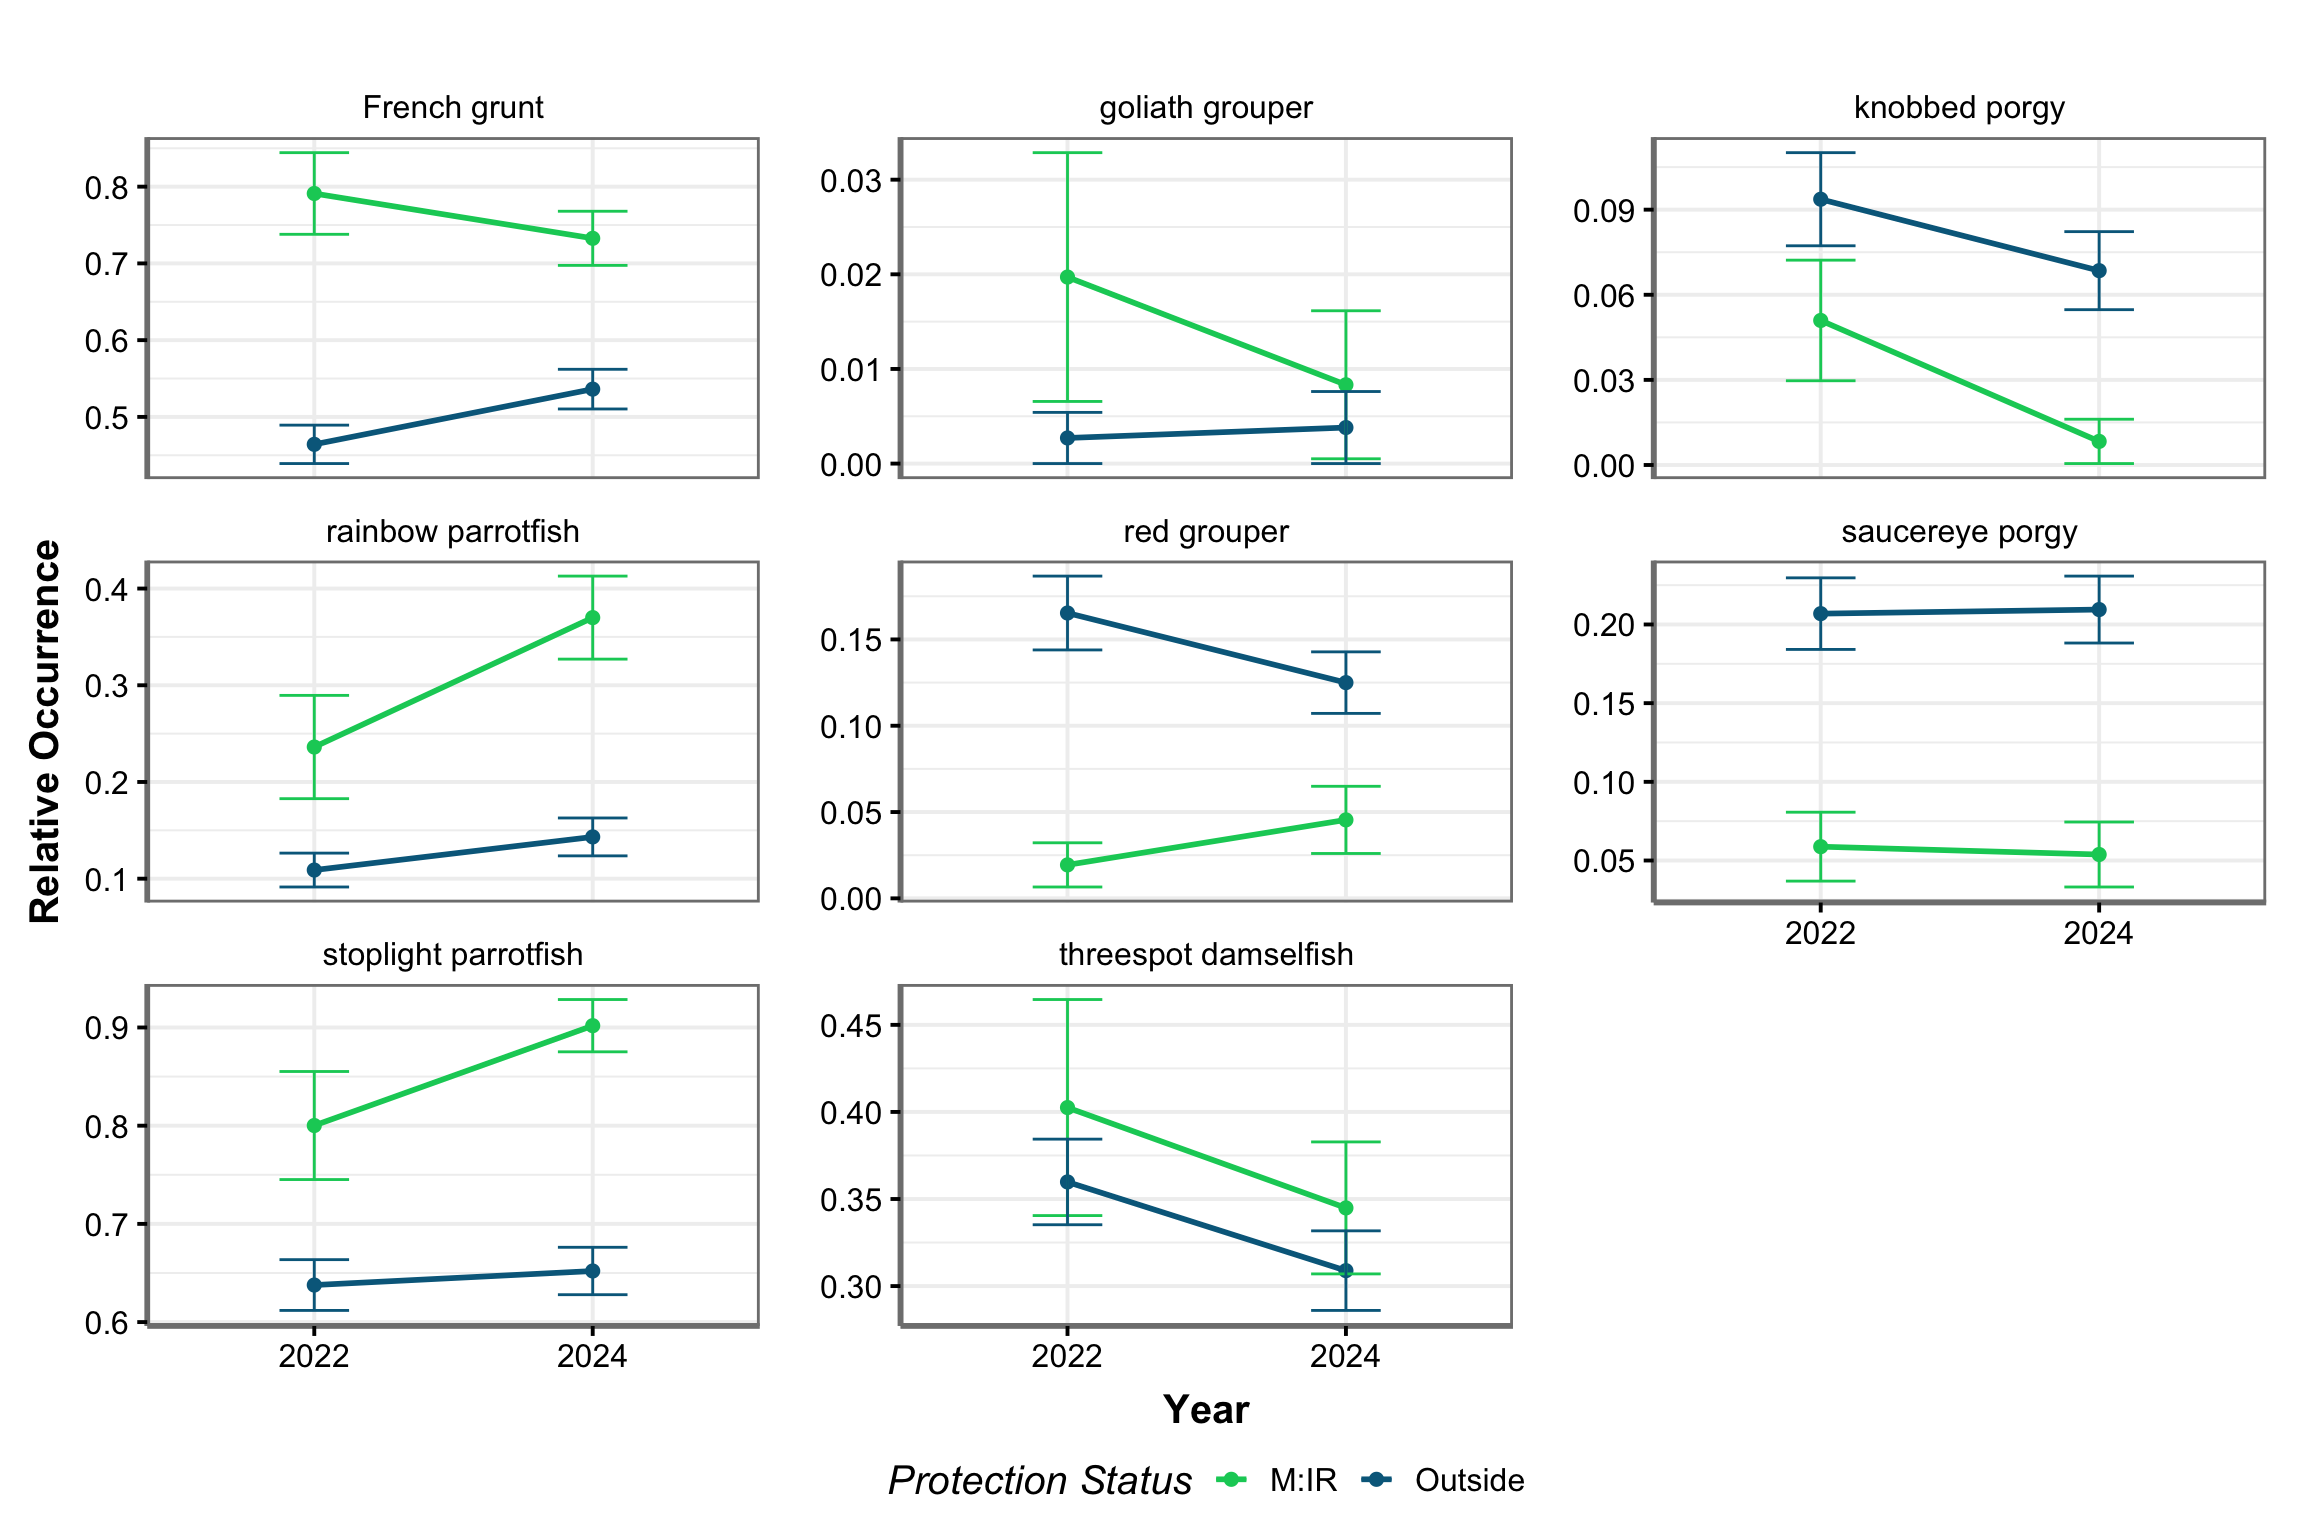
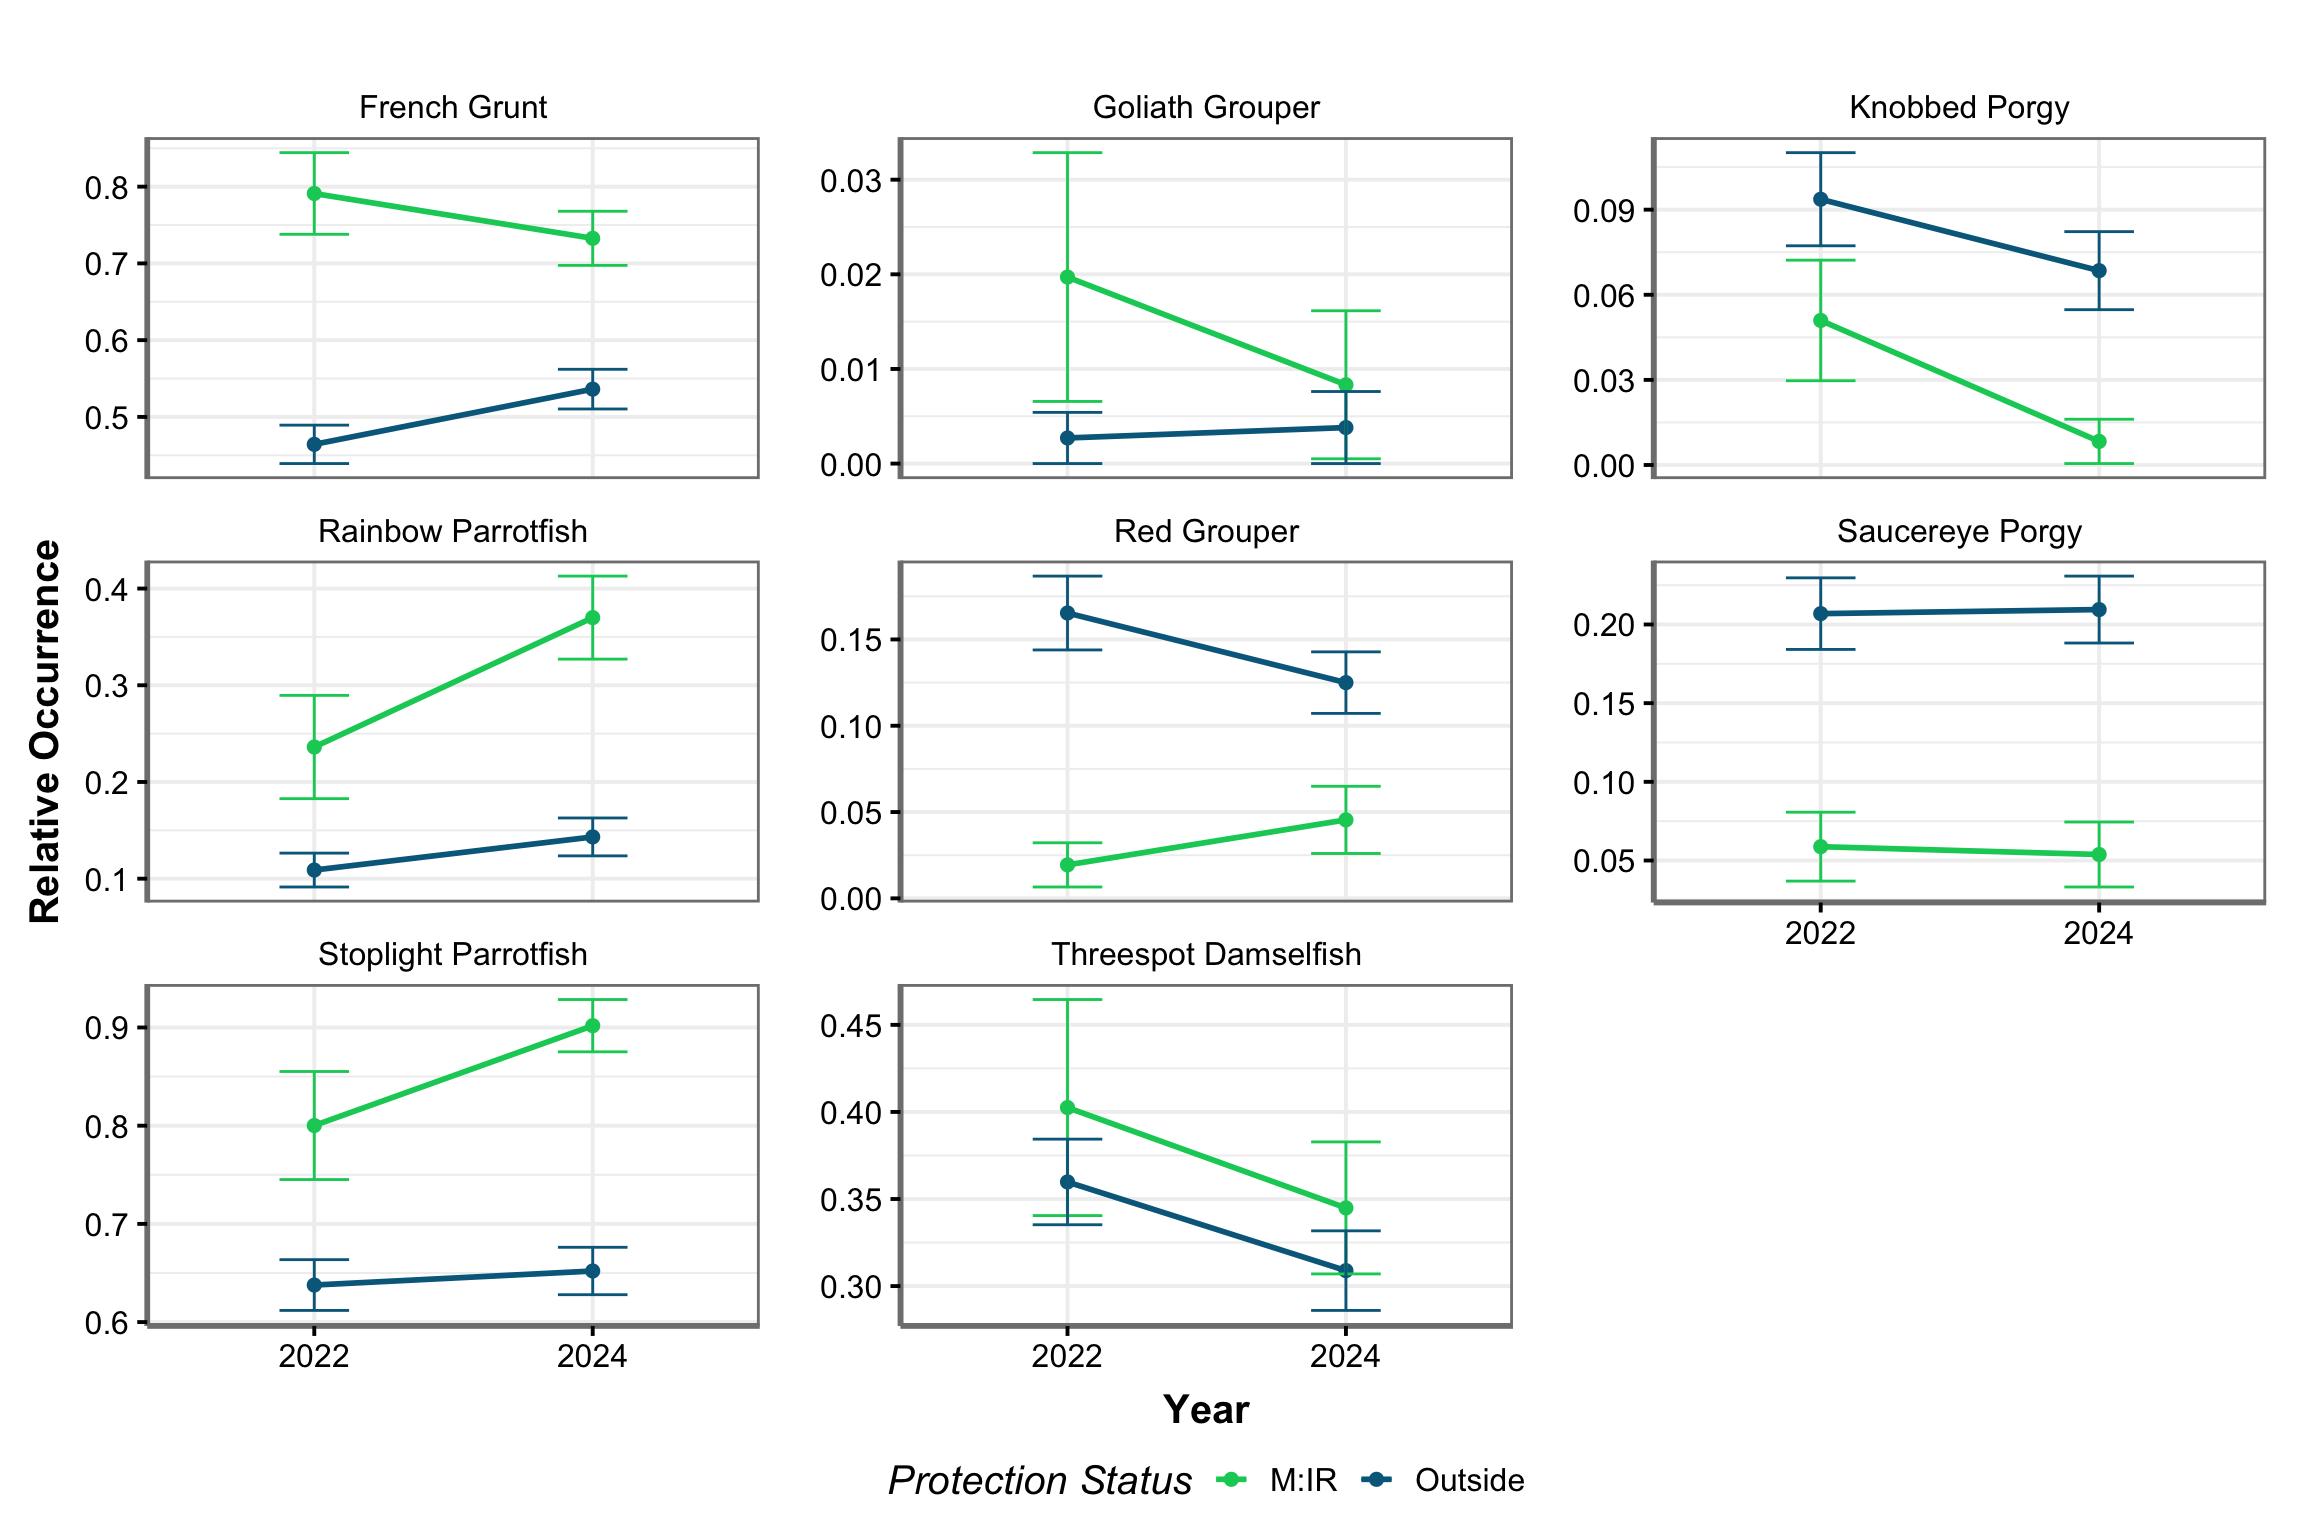
updates to LF and tables

diff --git a/docs/index.html b/docs/index.html
@@ -7,7 +7,7 @@
 <meta name="viewport" content="width=device-width, initial-scale=1.0, user-scalable=yes">
 
 <meta name="author" content="Jeremiah Blondeau + Rob Harper">
-<meta name="dcterms.date" content="2025-08-20">
+<meta name="dcterms.date" content="2025-08-21">
 
 <title>Mission: Iconic Reef</title>
 <style>
@@ -120,7 +120,7 @@ window.Quarto = {
       <div>
       <div class="quarto-title-meta-heading">Published</div>
       <div class="quarto-title-meta-contents">
-        <p class="date">August 20, 2025</p>
+        <p class="date">August 21, 2025</p>
       </div>
     </div>
     
@@ -198,8 +198,8 @@ window.Quarto = {
 <h3 data-number="2.1" class="anchored" data-anchor-id="strata"><span class="header-section-number">2.1</span> Strata</h3>
 <div class="cell">
 <div class="cell-output-display">
-<div class="datatables html-widget html-fill-item" id="htmlwidget-44f98a98a1e5ae904e66" style="width:100%;height:auto;"></div>
-<script type="application/json" data-for="htmlwidget-44f98a98a1e5ae904e66">{"x":{"filter":"none","vertical":false,"caption":"<caption>Table 1. Number of sites sampled.<\/caption>","data":[["Outside","Outside","Outside","Outside","Outside","Inside","Inside","Inside","Inside","Inside"],["FK01","FK02","FK03","FK04","FK05","FK01","FK02","FK03","FK04","FK05"],["inshore reefs, all depths","mid-channel patch reefs, all depths","offshore patch, all depths","forereef, low rugosity, &lt;12m","forereef, high rugosity, &lt;12m","inshore reefs, all depths","mid-channel patch reefs, all depths","offshore patch, all depths","forereef, low rugosity, &lt;12m","forereef, high rugosity, &lt;12m"],[15,170,96,181,167,12,25,15,20,125]],"container":"<table class=\"cell-border stripe\">\n  <thead>\n    <tr>\n      <th>Study Area<\/th>\n      <th>Strata Name<\/th>\n      <th>Strata Description<\/th>\n      <th>Sample Number<\/th>\n    <\/tr>\n  <\/thead>\n<\/table>","options":{"columnDefs":[{"className":"dt-center","targets":"_all"},{"name":"PROT","targets":0},{"name":"STRAT","targets":1},{"name":"description","targets":2},{"name":"n","targets":3}],"info":false,"paging":false,"searching":false,"order":[],"autoWidth":false,"orderClasses":false}},"evals":[],"jsHooks":[]}</script>
+<div class="datatables html-widget html-fill-item" id="htmlwidget-be2ee64553cbaf10fd43" style="width:100%;height:auto;"></div>
+<script type="application/json" data-for="htmlwidget-be2ee64553cbaf10fd43">{"x":{"filter":"none","vertical":false,"caption":"<caption>Table 1. Number of sites sampled by year.<\/caption>","data":[["Outside","Outside","Outside","Outside","Outside","Inside","Inside","Inside","Inside","Inside"],["FK01","FK02","FK03","FK04","FK05","FK01","FK02","FK03","FK04","FK05"],["inshore reefs, all depths","mid-channel patch reefs, all depths","offshore patch, all depths","forereef, low rugosity, &lt;12m","forereef, high rugosity, &lt;12m","inshore reefs, all depths","mid-channel patch reefs, all depths","offshore patch, all depths","forereef, low rugosity, &lt;12m","forereef, high rugosity, &lt;12m"],[0,101,61,95,88,0,12,7,5,61],[15,100,36,105,87,12,13,8,15,64]],"container":"<table class=\"cell-border stripe\">\n  <thead>\n    <tr>\n      <th>Study Area<\/th>\n      <th>Strata Name<\/th>\n      <th>Strata Description<\/th>\n      <th>2022<\/th>\n      <th>2024<\/th>\n    <\/tr>\n  <\/thead>\n<\/table>","options":{"columnDefs":[{"className":"dt-center","targets":"_all"},{"name":"PROT","targets":0},{"name":"STRAT","targets":1},{"name":"description","targets":2},{"name":"2022","targets":3},{"name":"2024","targets":4}],"info":false,"paging":false,"searching":false,"order":[],"autoWidth":false,"orderClasses":false}},"evals":[],"jsHooks":[]}</script>
 </div>
 </div>
 </section>
@@ -208,8 +208,8 @@ window.Quarto = {
 <p>Six reef fish species were chosen to represent different trophic levels and functional roles.</p>
 <div class="cell">
 <div class="cell-output-display">
-<div class="datatables html-widget html-fill-item" id="htmlwidget-aa804e0413e8c4c6f71e" style="width:100%;height:auto;"></div>
-<script type="application/json" data-for="htmlwidget-aa804e0413e8c4c6f71e">{"x":{"filter":"none","vertical":false,"caption":"<caption>Table 2. Fish species. For analysis, both porgy species were combined.<\/caption>","data":[["HAE FLAV","SPA VIRI","SCA GUAC","STE PLAN","CAL CALA","CAL NODO","EPI MORI","EPI ITAJ"],["French grunt","Stoplight parrotfish","Rainbow parrotfish","Threespot damselfish","Saucereye porgy","Knobbed porgy","Red grouper","Goliath grouper"],["Haemulon flavolineatum","Sparisoma viride","Scarus guacamaia","Stegastes planifrons","Calamus calamus","Calamus nodosus","Epinephelus morio","Epinephelus itajara"],[30,60,168,13,41,50,91,244]],"container":"<table class=\"cell-border stripe\">\n  <thead>\n    <tr>\n      <th> <\/th>\n      <th>Species Code<\/th>\n      <th>Common Name<\/th>\n      <th>Scientific Name<\/th>\n    <\/tr>\n  <\/thead>\n<\/table>","options":{"columnDefs":[{"className":"dt-center","targets":"_all"},{"orderable":false,"targets":0},{"name":"SPECIES_CD","targets":0},{"name":"COMNAME","targets":1},{"name":"SCINAME","targets":2},{"name":"max_size","targets":3}],"info":false,"paging":false,"searching":false,"order":[],"autoWidth":false,"orderClasses":false,"rowCallback":"function(row, data, displayNum, displayIndex, dataIndex) {\nvar value=data[2]; $(this.api().cell(row, 2).node()).css({'font-style':'italic'});\n}"}},"evals":["options.rowCallback"],"jsHooks":[]}</script>
+<div class="datatables html-widget html-fill-item" id="htmlwidget-5e716fb372b0913b6842" style="width:100%;height:auto;"></div>
+<script type="application/json" data-for="htmlwidget-5e716fb372b0913b6842">{"x":{"filter":"none","vertical":false,"caption":"<caption>Table 2. Fish species. For analysis, both porgy species were combined.<\/caption>","data":[["HAE FLAV","SPA VIRI","SCA GUAC","STE PLAN","CAL CALA","CAL NODO","EPI MORI","EPI ITAJ"],["French Grunt","Stoplight Parrotfish","Rainbow Parrotfish","Threespot Damselfish","Saucereye Porgy","Knobbed Porgy","Red Grouper","Goliath Grouper"],["Haemulon flavolineatum","Sparisoma viride","Scarus guacamaia","Stegastes planifrons","Calamus calamus","Calamus nodosus","Epinephelus morio","Epinephelus itajara"]],"container":"<table class=\"cell-border stripe\">\n  <thead>\n    <tr>\n      <th>Species Code<\/th>\n      <th>Common Name<\/th>\n      <th>Scientific Name<\/th>\n    <\/tr>\n  <\/thead>\n<\/table>","options":{"columnDefs":[{"className":"dt-center","targets":"_all"},{"name":"SPECIES_CD","targets":0},{"name":"COMNAME","targets":1},{"name":"SCINAME","targets":2}],"info":false,"paging":false,"searching":false,"order":[],"autoWidth":false,"orderClasses":false,"rowCallback":"function(row, data, displayNum, displayIndex, dataIndex) {\nvar value=data[2]; $(this.api().cell(row, 2).node()).css({'font-style':'italic'});\n}"}},"evals":["options.rowCallback"],"jsHooks":[]}</script>
 </div>
 </div>
 <div style="page-break-after: always;"></div>
@@ -247,7 +247,7 @@ window.Quarto = {
 <h2 data-number="5" class="anchored" data-anchor-id="length-frequency"><span class="header-section-number">5</span> Length Frequency</h2>
 <p>Length compositions provide a detailed description of a selected fish’s population structure. These highly informative figures can show the length at which a fish species recruits to the coral reef (i.e., young of year or from nursery habitat), length classes removed by the local fisheries, and the effectiveness of management actions</p>
 <div class="tabset-margin-container"></div><div class="panel-tabset">
-<ul class="nav nav-tabs" role="tablist"><li class="nav-item" role="presentation"><a class="nav-link active" id="tabset-1-1-tab" data-bs-toggle="tab" data-bs-target="#tabset-1-1" role="tab" aria-controls="tabset-1-1" aria-selected="true" href="">French grunt</a></li><li class="nav-item" role="presentation"><a class="nav-link" id="tabset-1-2-tab" data-bs-toggle="tab" data-bs-target="#tabset-1-2" role="tab" aria-controls="tabset-1-2" aria-selected="false" href="">stoplight parrotfish</a></li><li class="nav-item" role="presentation"><a class="nav-link" id="tabset-1-3-tab" data-bs-toggle="tab" data-bs-target="#tabset-1-3" role="tab" aria-controls="tabset-1-3" aria-selected="false" href="">rainbow parrotfish</a></li><li class="nav-item" role="presentation"><a class="nav-link" id="tabset-1-4-tab" data-bs-toggle="tab" data-bs-target="#tabset-1-4" role="tab" aria-controls="tabset-1-4" aria-selected="false" href="">threespot damselfish</a></li><li class="nav-item" role="presentation"><a class="nav-link" id="tabset-1-5-tab" data-bs-toggle="tab" data-bs-target="#tabset-1-5" role="tab" aria-controls="tabset-1-5" aria-selected="false" href="">saucereye porgy</a></li><li class="nav-item" role="presentation"><a class="nav-link" id="tabset-1-6-tab" data-bs-toggle="tab" data-bs-target="#tabset-1-6" role="tab" aria-controls="tabset-1-6" aria-selected="false" href="">knobbed porgy</a></li><li class="nav-item" role="presentation"><a class="nav-link" id="tabset-1-7-tab" data-bs-toggle="tab" data-bs-target="#tabset-1-7" role="tab" aria-controls="tabset-1-7" aria-selected="false" href="">red grouper</a></li><li class="nav-item" role="presentation"><a class="nav-link" id="tabset-1-8-tab" data-bs-toggle="tab" data-bs-target="#tabset-1-8" role="tab" aria-controls="tabset-1-8" aria-selected="false" href="">goliath grouper</a></li></ul>
+<ul class="nav nav-tabs" role="tablist"><li class="nav-item" role="presentation"><a class="nav-link active" id="tabset-1-1-tab" data-bs-toggle="tab" data-bs-target="#tabset-1-1" role="tab" aria-controls="tabset-1-1" aria-selected="true" href="">French Grunt</a></li><li class="nav-item" role="presentation"><a class="nav-link" id="tabset-1-2-tab" data-bs-toggle="tab" data-bs-target="#tabset-1-2" role="tab" aria-controls="tabset-1-2" aria-selected="false" href="">Stoplight Parrotfish</a></li><li class="nav-item" role="presentation"><a class="nav-link" id="tabset-1-3-tab" data-bs-toggle="tab" data-bs-target="#tabset-1-3" role="tab" aria-controls="tabset-1-3" aria-selected="false" href="">Rainbow Parrotfish</a></li><li class="nav-item" role="presentation"><a class="nav-link" id="tabset-1-4-tab" data-bs-toggle="tab" data-bs-target="#tabset-1-4" role="tab" aria-controls="tabset-1-4" aria-selected="false" href="">Threespot Damselfish</a></li><li class="nav-item" role="presentation"><a class="nav-link" id="tabset-1-5-tab" data-bs-toggle="tab" data-bs-target="#tabset-1-5" role="tab" aria-controls="tabset-1-5" aria-selected="false" href="">Saucereye Porgy</a></li><li class="nav-item" role="presentation"><a class="nav-link" id="tabset-1-6-tab" data-bs-toggle="tab" data-bs-target="#tabset-1-6" role="tab" aria-controls="tabset-1-6" aria-selected="false" href="">Knobbed Porgy</a></li><li class="nav-item" role="presentation"><a class="nav-link" id="tabset-1-7-tab" data-bs-toggle="tab" data-bs-target="#tabset-1-7" role="tab" aria-controls="tabset-1-7" aria-selected="false" href="">Red Grouper</a></li><li class="nav-item" role="presentation"><a class="nav-link" id="tabset-1-8-tab" data-bs-toggle="tab" data-bs-target="#tabset-1-8" role="tab" aria-controls="tabset-1-8" aria-selected="false" href="">Goliath Grouper</a></li></ul>
 <div class="tab-content">
 <div id="tabset-1-1" class="tab-pane active" role="tabpanel" aria-labelledby="tabset-1-1-tab">
 <p><img src="Index_files/figure-html/unnamed-chunk-6-1.png" class="img-fluid" width="1152"></p>
@@ -272,6 +272,14 @@ window.Quarto = {
 </div>
 <div id="tabset-1-8" class="tab-pane" role="tabpanel" aria-labelledby="tabset-1-8-tab">
 <p><img src="Index_files/figure-html/unnamed-chunk-6-8.png" class="img-fluid" width="1152"></p>
+<p>[[1]] NULL</p>
+<p>[[2]] NULL</p>
+<p>[[3]] NULL</p>
+<p>[[4]] NULL</p>
+<p>[[5]] NULL</p>
+<p>[[6]] NULL</p>
+<p>[[7]] NULL</p>
+<p>[[8]] NULL</p>
 </div>
 </div>
 </div>
